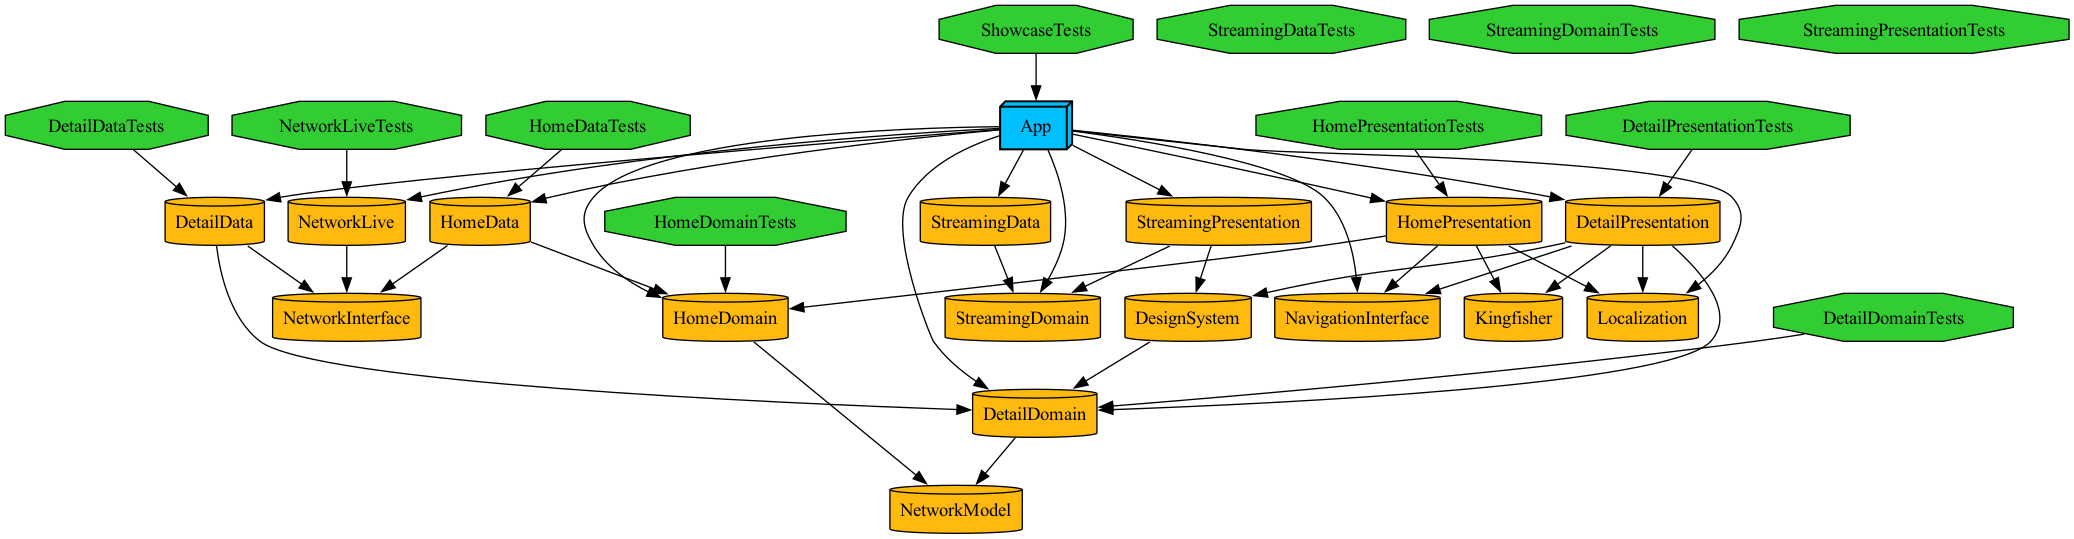
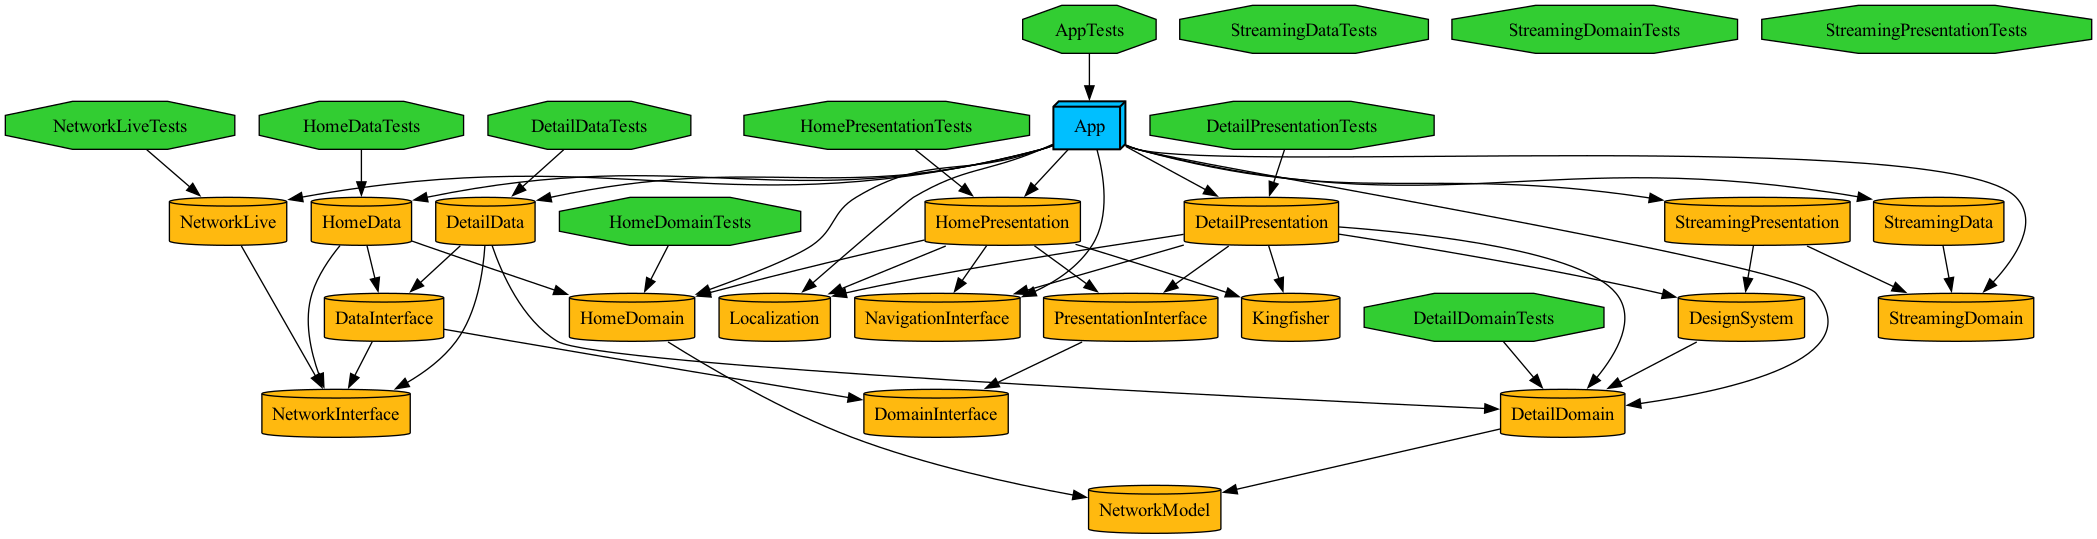
feat: #22 - Interface 계층 도입 및 Detail/Home Presentation 에러 처리 구조 개선
- DataInterface / DomainInterface를 `Interface/` 디렉토리로 이동
- PresentationInterface 모듈 신규 생성
  - DomainErrorMessageMapper 추가 (Presentation 공통 메시지 변환 제공)
- Workspace.swift에서 Interface 모듈 포함하도록 수정

- LoadState를 DetailDomain으로 이동하여 Presentation의 공통 상태로 분리
- Movie/People/TV DetailViewModel에서 Task 중첩 제거 및 async/await 구조 개선
- DomainErrorMessageMapper 기반의 에러 메시지 처리로 통일
- PresentationInterface 의존성 추가

- HomeViewModel의 기존 mapDomainErrorToMessage 제거
- PresentationInterface의 DomainErrorMessageMapper 사용하도록 통합
- Module 의존성(Interface/PresentationInterface) 추가

- DataInterface 경로 변경 반영
- NetworkErrorMapper 적용을 위한 import 경로 수정

- graph.png 업데이트

diff --git a/Features/Detail/DetailPresentation/Sources/ViewModels/MovieDetailViewModel.swift b/Features/Detail/DetailPresentation/Sources/ViewModels/MovieDetailViewModel.swift
@@ -6,6 +6,9 @@
 //
 
 import Foundation
+
+import PresentationInterface
+
 import DetailDomain
 
 @MainActor
@@ -27,42 +30,36 @@ public final class MovieDetailViewModel: ObservableObject {
     }
 
     public func load() async {
-        Task {
-            self.movieDetailState.state = .loading
-            do {
-                let input = DetailInput(id: id, language: language)
-                async let fetchDetail = self.useCase.fetchDetail(input)
-                async let fetchCredits = useCase.fetchCredits(input)
-                async let fetchVideos = self.useCase.fetchVideos(input)
-                async let fetchSimilars = self.useCase.fetchSimilar(input)
+        self.movieDetailState.state = .loading
 
-                let (detail, credits, videos, similars) = try await (fetchDetail, fetchCredits, fetchVideos, fetchSimilars)
-                let adapter = MovieHeaderAdapter(info: detail)
+        do {
+            let input = DetailInput(id: id, language: language)
 
-                self.movieDetailState.adapter = adapter
-                self.movieDetailState.credits = credits
-                self.movieDetailState.videos = videos
-                self.movieDetailState.similars = similars
+            async let detailTask = self.useCase.fetchDetail(input)
+            async let creditsTask = self.useCase.fetchCredits(input)
+            async let videosTask = self.useCase.fetchVideos(input)
+            async let similarTask = self.useCase.fetchSimilar(input)
 
-                self.movieDetailState.state = .loaded
-                print("MovieDetailViewModel State changed to:", self.movieDetailState.state)
-            } catch {
-                let error = error as NSError
-                self.movieDetailState.state = .failed("MovieDetailViewModel: \(error.code)")
-            }
+            let (detail, credits, videos, similars) = try await (detailTask, creditsTask, videosTask, similarTask)
+
+            let adapter = MovieHeaderAdapter(info: detail)
+
+            self.movieDetailState.adapter = adapter
+            self.movieDetailState.credits = credits
+            self.movieDetailState.videos = videos
+            self.movieDetailState.similars = similars
+
+            self.movieDetailState.state = .loaded
+        } catch let domainError as DetailDomainError {
+            self.movieDetailState.state = .failed(DomainErrorMessageMapper.message(for: domainError))
+        } catch {
+            self.movieDetailState.state = .failed("알 수 없는 오류가 발생했어요.")
         }
     }
 
     public func toggleOverviewExpanded() {
         movieDetailState.showFullOverview.toggle()
     }
-}
-
-enum LoadState: Equatable {
-    case idle
-    case loading
-    case loaded
-    case failed(String)
 }
 
 struct MovieDetailState {

diff --git a/Features/Home/HomePresentation/Sources/ViewModels/HomeViewModel.swift b/Features/Home/HomePresentation/Sources/ViewModels/HomeViewModel.swift
@@ -7,6 +7,9 @@
 
 import Foundation
 import Combine
+
+import PresentationInterface
+
 import HomeDomain
 
 @MainActor
@@ -52,8 +55,8 @@ public final class HomeViewModel: ObservableObject {
             try await self.moviesUsecase.loadFirst()
             try await self.peopleUsecase.loadFirst()
             try await self.tvsUsecase.loadFirst()
-        } catch let error as HomeDomainError {
-            self.errorMessage = mapDomainErrorToMessage(error)
+        } catch let domainError as HomeDomainError {
+            self.errorMessage = DomainErrorMessageMapper.message(for: domainError)
         } catch {
             self.errorMessage = "알 수 없는 오류가 발생했습니다."
         }
@@ -69,36 +72,5 @@ public final class HomeViewModel: ObservableObject {
 
     func onTVAppear(_ item: PopularTVEntity) async {
         await tvsUsecase.loadMoreIfNeeded(currentItem: item, threshold: 5)
-    }
-
-    private func mapDomainErrorToMessage(_ error: HomeDomainError) -> String {
-        switch error {
-        case .network:
-            return "인터넷 연결이 불안정합니다. 네트워크 상태를 확인해주세요."
-
-        case .timeout:
-            return "응답이 지연되고 있습니다. 잠시 후 다시 시도해주세요."
-
-        case .unauthorized:
-            return "접근 권한이 없습니다."
-
-        case .forbidden:
-            return "요청이 거부되었어요."
-
-        case .notFound:
-            return "요청한 데이터를 찾을 수 없습니다."
-
-        case .tooManyRequests:
-            return "요청이 너무 많습니다. 잠시 후 다시 시도해주세요."
-
-        case .serverError:
-            return "서버에 문제가 발생했습니다. 잠시 뒤 다시 시도해주세요."
-
-        case .decoding:
-            return "데이터 처리 중 오류가 발생했어요."
-
-        case .unknown:
-            return "알 수 없는 오류가 발생했어요."
-        }
     }
 }

diff --git a/Features/Detail/DetailPresentation/Sources/ViewModels/TVDetailViewModel.swift b/Features/Detail/DetailPresentation/Sources/ViewModels/TVDetailViewModel.swift
@@ -6,6 +6,9 @@
 //
 
 import Foundation
+
+import PresentationInterface
+
 import DetailDomain
 
 @MainActor
@@ -28,14 +31,17 @@ public final class TVDetailViewModel: ObservableObject {
 
     public func load() async {
         self.tvDetailState.state = .loading
+
         do {
             let input = DetailInput(id: id, language: language)
-            async let fetchDetail = self.useCase.fetchDetail(input)
-            async let fetchCredits = self.useCase.fetchCredits(input)
-            async let fetchVideos = self.useCase.fetchVideos(input)
-            async let fetchSimilars = self.useCase.fetchSimilars(input)
 
-            let (detail, credits, videos, similars) = try await (fetchDetail, fetchCredits, fetchVideos, fetchSimilars)
+            async let detailTask = self.useCase.fetchDetail(input)
+            async let creditsTask = self.useCase.fetchCredits(input)
+            async let videosTask = self.useCase.fetchVideos(input)
+            async let similarTask = self.useCase.fetchSimilars(input)
+
+            let (detail, credits, videos, similars) = try await (detailTask, creditsTask, videosTask, similarTask)
+
             let adapter = TVHeaderAdapter(info: detail)
 
             self.tvDetailState.adater = adapter
@@ -44,10 +50,10 @@ public final class TVDetailViewModel: ObservableObject {
             self.tvDetailState.similars = similars
 
             self.tvDetailState.state = .loaded
-            print("TVDetailViewModel State changed to:", self.tvDetailState.state)
+        } catch let domainError as DetailDomainError {
+            self.tvDetailState.state = .failed(DomainErrorMessageMapper.message(for: domainError))
         } catch {
-            let error = error as NSError
-            self.tvDetailState.state = .failed("TVDetailViewModel: \(error.code)")
+            self.tvDetailState.state = .failed("알 수 없는 오류가 발생했어요.")
         }
     }
 

diff --git a/Features/Detail/DetailPresentation/Sources/ViewModels/PeopleDetailViewModel.swift b/Features/Detail/DetailPresentation/Sources/ViewModels/PeopleDetailViewModel.swift
@@ -6,6 +6,9 @@
 //
 
 import Foundation
+
+import PresentationInterface
+
 import DetailDomain
 
 @MainActor
@@ -27,24 +30,24 @@ public final class PeopleDetailViewModel: ObservableObject {
     }
 
     public func load() async {
-        Task {
-            self.peopleDetailState.state = .loading
-            do {
-                let input = DetailInput(id: id, language: language)
-                async let fetchDetail = self.usecase.fetchDetail(input)
-                async let fetchCredits = self.usecase.fetchCredits(input)
+        self.peopleDetailState.state = .loading
 
-                let (detail, credits) = try await (fetchDetail, fetchCredits)
+        do {
+            let input = DetailInput(id: id, language: language)
 
-                self.peopleDetailState.detail = detail
-                self.peopleDetailState.knownFors = credits
+            async let detailTask = self.usecase.fetchDetail(input)
+            async let creditsTask = self.usecase.fetchCredits(input)
 
-                self.peopleDetailState.state = .loaded
-                print("PersonDetailViewModel State changed to:", self.peopleDetailState.state)
-            } catch {
-                let nsError = error as NSError
-                self.peopleDetailState.state = .failed("PersonDetailViewModel: \(nsError.code)")
-            }
+            let (detail, credits) = try await (detailTask, creditsTask)
+
+            self.peopleDetailState.detail = detail
+            self.peopleDetailState.knownFors = credits
+
+            self.peopleDetailState.state = .loaded
+        } catch let domainError as DetailDomainError {
+            self.peopleDetailState.state = .failed(DomainErrorMessageMapper.message(for: domainError))
+        } catch {
+            self.peopleDetailState.state = .failed("알 수 없는 오류가 발생했어요.")
         }
     }
 

diff --git a/Interface/PresentationInterface/Project.swift b/Interface/PresentationInterface/Project.swift
@@ -1,7 +1,7 @@
 import ProjectDescription
 
 let project = Project(
-    name: "DataInterface",
+    name: "PresentationInterface",
     settings: .settings(
         base: [
             "SWIFT_VERSION": "5.10",
@@ -9,21 +9,20 @@ let project = Project(
             "CODE_SIGN_STYLE": "Automatic"
         ],
         configurations: [
-            .debug(name: .debug, xcconfig: "../Configs/Debug-Dev.xcconfig"),
-            .release(name: .release, xcconfig: "../Configs/Release-Prod.xcconfig")
+            .debug(name: .debug, xcconfig: "../../Configs/Debug-Dev.xcconfig"),
+            .release(name: .release, xcconfig: "../../Configs/Release-Prod.xcconfig")
         ]
     ),
     targets: [
         .target(
-            name: "DataInterface",
+            name: "PresentationInterface",
             destinations: .iOS,
             product: .framework,
-            bundleId: "com.raehoon.Showcase.DataInterface",
+            bundleId: "com.raehoon.Showcase.PresentationInterface",
             deploymentTargets: .iOS("17.0"),
             sources: ["Sources/**"],
             dependencies: [
-                .project(target: "DomainInterface", path: "../DomainInterface"),
-                .project(target: "NetworkInterface", path: "../Core/NetworkInterface"),
+                .project(target: "DomainInterface", path: "../DomainInterface")
             ]
         )
     ]

diff --git a/Interface/PresentationInterface/Sources/PresentationInterface.swift b/Interface/PresentationInterface/Sources/PresentationInterface.swift
@@ -1,0 +1,33 @@
+//
+//  DomainErrorMessageMapper.swift
+//  PresentationInterface
+//
+//  Created by 백래훈 on 12/2/25.
+//
+
+import DomainInterface
+
+public struct DomainErrorMessageMapper {
+    public static func message(for error: DomainError) -> String {
+        switch error {
+        case .network:
+            return "인터넷 연결이 불안정합니다. 네트워크 상태를 확인해주세요."
+        case .timeout:
+            return "응답이 지연되고 있어요. 잠시 후 다시 시도해주세요."
+        case .unauthorized:
+            return "접근 권한이 없습니다."
+        case .forbidden:
+            return "요청이 거부되었어요."
+        case .notFound:
+            return "요청한 데이터를 찾을 수 없습니다."
+        case .tooManyRequests:
+            return "요청이 너무 많습니다. 잠시 후 다시 시도해주세요."
+        case .serverError:
+            return "서버에 문제가 발생했습니다."
+        case .decoding:
+            return "데이터를 처리할 수 없습니다."
+        case .unknown:
+            return "알 수 없는 오류가 발생했어요."
+        }
+    }
+}

diff --git a/Interface/DataInterface/Project.swift b/Interface/DataInterface/Project.swift
@@ -1,0 +1,30 @@
+import ProjectDescription
+
+let project = Project(
+    name: "DataInterface",
+    settings: .settings(
+        base: [
+            "SWIFT_VERSION": "5.10",
+            "DEVELOPMENT_TEAM": "DD66GTY4AT",
+            "CODE_SIGN_STYLE": "Automatic"
+        ],
+        configurations: [
+            .debug(name: .debug, xcconfig: "../../Configs/Debug-Dev.xcconfig"),
+            .release(name: .release, xcconfig: "../../Configs/Release-Prod.xcconfig")
+        ]
+    ),
+    targets: [
+        .target(
+            name: "DataInterface",
+            destinations: .iOS,
+            product: .framework,
+            bundleId: "com.raehoon.Showcase.DataInterface",
+            deploymentTargets: .iOS("17.0"),
+            sources: ["Sources/**"],
+            dependencies: [
+                .project(target: "DomainInterface", path: "../DomainInterface"),
+                .project(target: "NetworkInterface", path: "../../Core/NetworkInterface"),
+            ]
+        )
+    ]
+)

diff --git a/Features/Detail/DetailPresentation/Project.swift b/Features/Detail/DetailPresentation/Project.swift
@@ -32,6 +32,7 @@ let project = Project(
                 .project(target: "Localization", path: "../../../Core/Localization"),
                 .project(target: "DesignSystem", path: "../../../DesignSystem"),
                 .project(target: "NavigationInterface", path: "../../../Core/NavigationInterface"),
+                .project(target: "PresentationInterface", path: "../../../Interface/PresentationInterface"),
                 .project(target: "DetailDomain", path: "../DetailDomain"),
                 .external(name: "Kingfisher", condition: .none)
             ]

diff --git a/Features/Home/HomePresentation/Project.swift b/Features/Home/HomePresentation/Project.swift
@@ -31,6 +31,7 @@ let project = Project(
             dependencies: [
                 .project(target: "Localization", path: "../../../Core/Localization"),
                 .project(target: "NavigationInterface", path: "../../../Core/NavigationInterface"),
+                .project(target: "PresentationInterface", path: "../../../Interface/PresentationInterface"),
                 .project(target: "HomeDomain", path: "../HomeDomain"),
                 .external(name: "Kingfisher", condition: .none)
             ]

diff --git a/Interface/DomainInterface/Project.swift b/Interface/DomainInterface/Project.swift
@@ -9,8 +9,8 @@ let project = Project(
             "CODE_SIGN_STYLE": "Automatic"
         ],
         configurations: [
-            .debug(name: .debug, xcconfig: "../Configs/Debug-Dev.xcconfig"),
-            .release(name: .release, xcconfig: "../Configs/Release-Prod.xcconfig")
+            .debug(name: .debug, xcconfig: "../../Configs/Debug-Dev.xcconfig"),
+            .release(name: .release, xcconfig: "../../Configs/Release-Prod.xcconfig")
         ]
     ),
     targets: [

diff --git a/Features/Detail/DetailData/Project.swift b/Features/Detail/DetailData/Project.swift
@@ -30,7 +30,7 @@ let project = Project(
             sources: ["Sources/**"],
             dependencies: [
                 .project(target: "NetworkInterface", path: "../../../Core/NetworkInterface"),
-                .project(target: "DataInterface", path: "../../../DataInterface"),
+                .project(target: "DataInterface", path: "../../../Interface/DataInterface"),
                 .project(target: "DetailDomain", path: "../DetailDomain")
             ]
         ),

diff --git a/Features/Home/HomeData/Project.swift b/Features/Home/HomeData/Project.swift
@@ -30,7 +30,7 @@ let project = Project(
             sources: ["Sources/**"],
             dependencies: [
                 .project(target: "NetworkInterface", path: "../../../Core/NetworkInterface"),
-                .project(target: "DataInterface", path: "../../../DataInterface"),
+                .project(target: "DataInterface", path: "../../../Interface/DataInterface"),
                 .project(target: "HomeDomain", path: "../HomeDomain")
             ]
         ),
